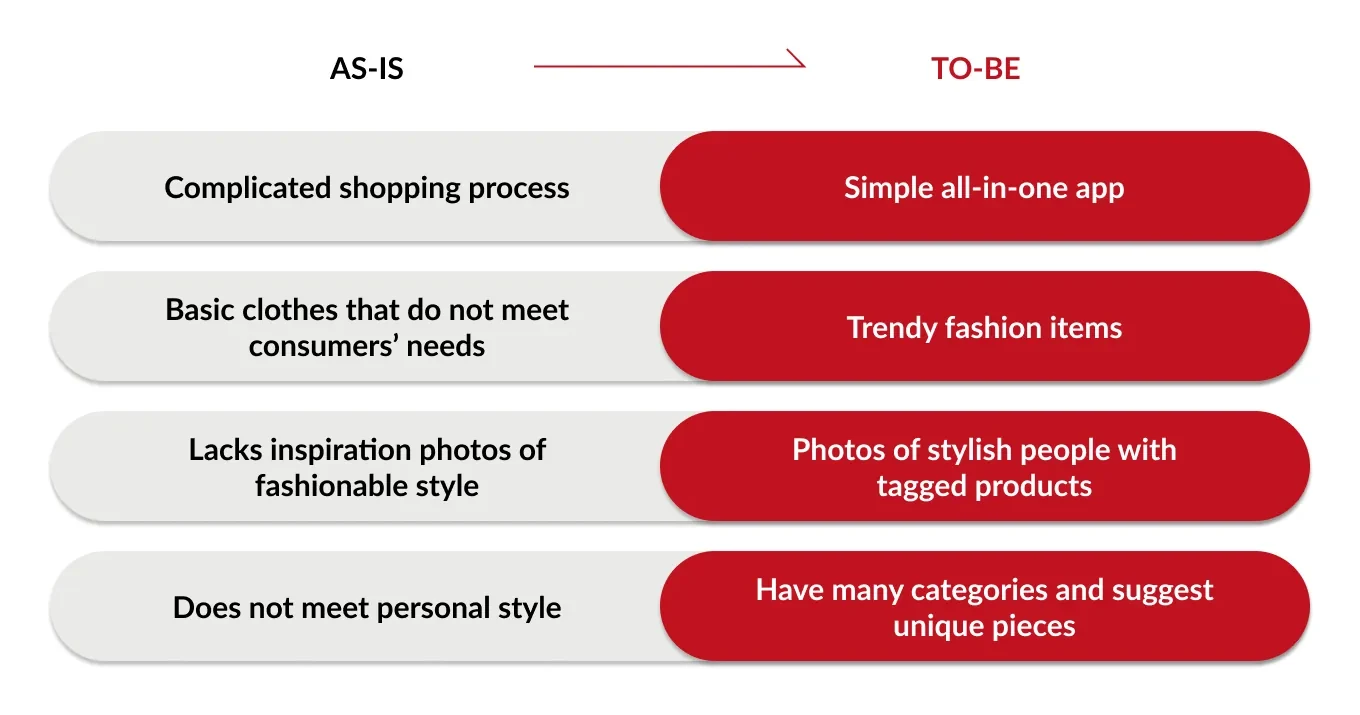
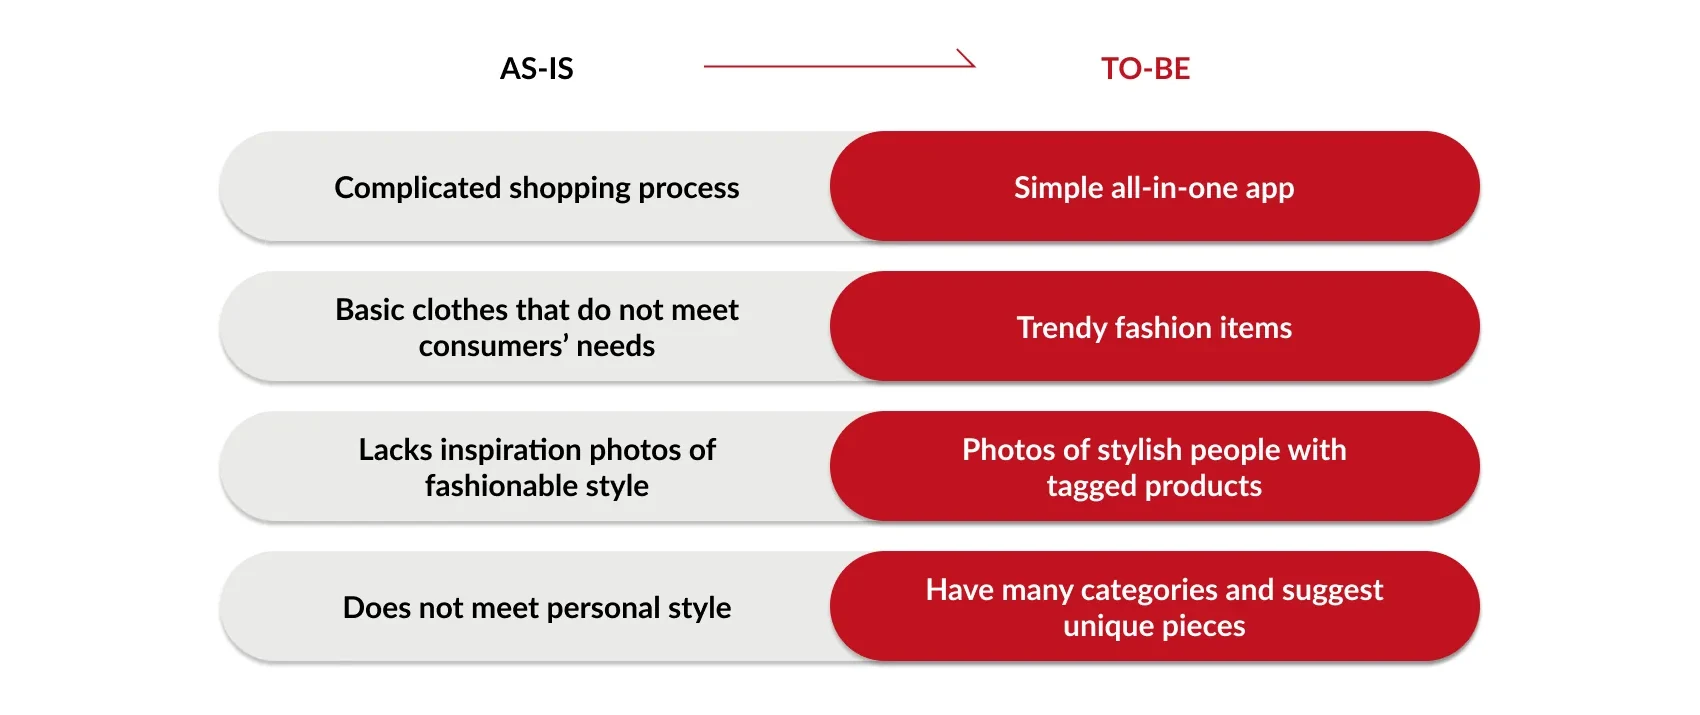
Trendy: trim phones bleeding into the solution band; full-width as-is/to-be
- The solution image's bottom picked up the tops of the final-screen phones;
  it now ends on clean red below the card.
- As-is -> to-be is re-cut at the same 1700px width as the other sections
  and drops its width cap, so it lines up with the rest at the same scale.

Claude-Session: https://claude.ai/code/session_01XrSCNk8CdZFL88DQkgrBgR

diff --git a/trendy.html b/trendy.html
@@ -48,12 +48,12 @@
 <section class="ni-sec"><h2 class="ni-h">Who it’s for</h2>
 <figure class="fg"><div class="fg-box" style="aspect-ratio:1700/721"><img alt="Target persona: Maria Johnson, 23, marketer" loading="lazy" onerror="this.hidden=true" src="images/trendy/05-persona.webp"/></div></figure>
 <h3 class="ni-h ni-h--sm tr-sub">As-is → to-be</h3>
-<figure class="fg" style="max-width:76rem; margin-inline:auto"><div class="fg-box" style="aspect-ratio:1360/715"><img alt="As-is versus to-be" loading="lazy" onerror="this.hidden=true" src="images/trendy/06-as-is-to-be.webp"/></div></figure></section>
+<figure class="fg"><div class="fg-box" style="aspect-ratio:1700/715"><img alt="As-is versus to-be" loading="lazy" onerror="this.hidden=true" src="images/trendy/06-as-is-to-be.webp"/></div></figure></section>
 <section class="ni-sec"><h2 class="ni-h">User journey</h2>
 <p class="ni-note">Mapping emotions from opening the app to buying showed where frustration peaks, and where Trendy can help.</p>
 <figure class="fg"><div class="fg-box" style="aspect-ratio:1700/899"><img alt="User journey map" loading="lazy" onerror="this.hidden=true" src="images/trendy/08-journey-map.webp"/></div></figure></section>
 <section class="ni-sec"><h2 class="ni-h">The solution</h2>
-<figure class="fg"><div class="fg-box" style="aspect-ratio:1844/1017"><img alt="Problem solving: popular brands in one app, categorized trends and tagged products" loading="lazy" onerror="this.hidden=true" src="images/trendy/09-problem-solving.webp"/></div></figure>
+<figure class="fg"><div class="fg-box" style="aspect-ratio:1844/995"><img alt="Problem solving: popular brands in one app, categorized trends and tagged products" loading="lazy" onerror="this.hidden=true" src="images/trendy/09-problem-solving.webp"/></div></figure>
 <div class="features" style="--n:3"><div class="feature"><span class="feat-n">01</span><h3>Discover trends</h3><p>Popular brands and the latest products in one place.</p></div><div class="feature"><span class="feat-n">02</span><h3>Find inspiration</h3><p>Trends sorted into categories, saved to your own boards.</p></div><div class="feature"><span class="feat-n">03</span><h3>Shop seamlessly</h3><p>Products tagged in photos, from trend to purchase.</p></div></div></section>
 <section class="ni-sec"><h2 class="ni-h">Brand</h2>
 <p class="ni-note">A deep red that is bold and trendy, with Lato for clean, readable type.</p>

diff --git a/images/MANIFEST.md b/images/MANIFEST.md
@@ -103,10 +103,10 @@ Until a file exists, the page shows a blank placeholder box at the correct size.
 | `images/trendy/03-brand.webp` | title_pa2ge.png, brand section | 1644×482 |
 | `images/trendy/04-interviews.webp` | title_pa2ge.png, interviews section | 1683×921 |
 | `images/trendy/05-persona.webp` | title_pa2ge.png, persona section | 1700×721 |
-| `images/trendy/06-as-is-to-be.webp` | title_pa2ge.png, as is to be section | 1360×715 |
+| `images/trendy/06-as-is-to-be.webp` | title_pa2ge.png, as is to be section | 1700×715 |
 | `images/trendy/07-competitor-research.webp` | title_pa2ge.png, competitor research section | 1762×1160 |
 | `images/trendy/08-journey-map.webp` | title_pa2ge.png, journey map section | 1700×899 |
-| `images/trendy/09-problem-solving.webp` | title_pa2ge.png, problem solving section | 1844×1017 |
+| `images/trendy/09-problem-solving.webp` | title_pa2ge.png, problem solving section | 1844×995 |
 | `images/trendy/10-final-screens.webp` | title_pa2ge.png, final screens section | 1888×1127 |
 
 ## travel-mate.html — Travel Mate
